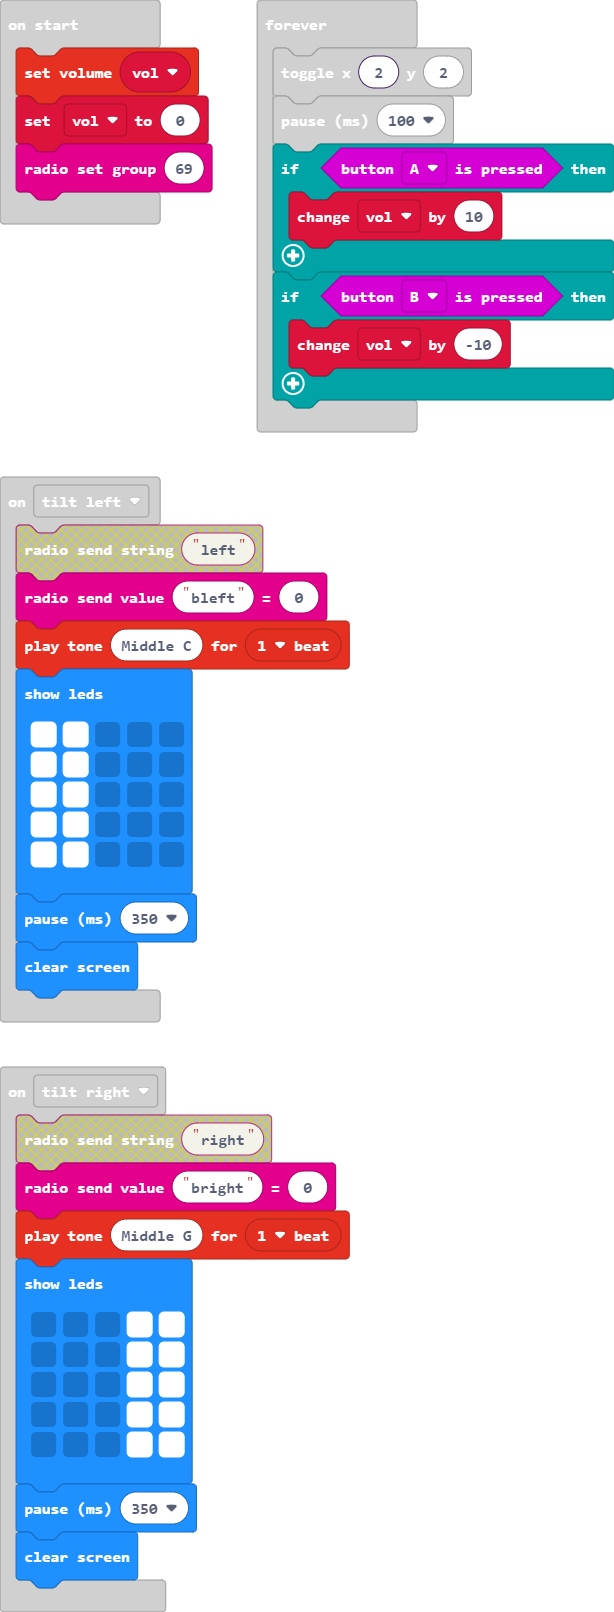
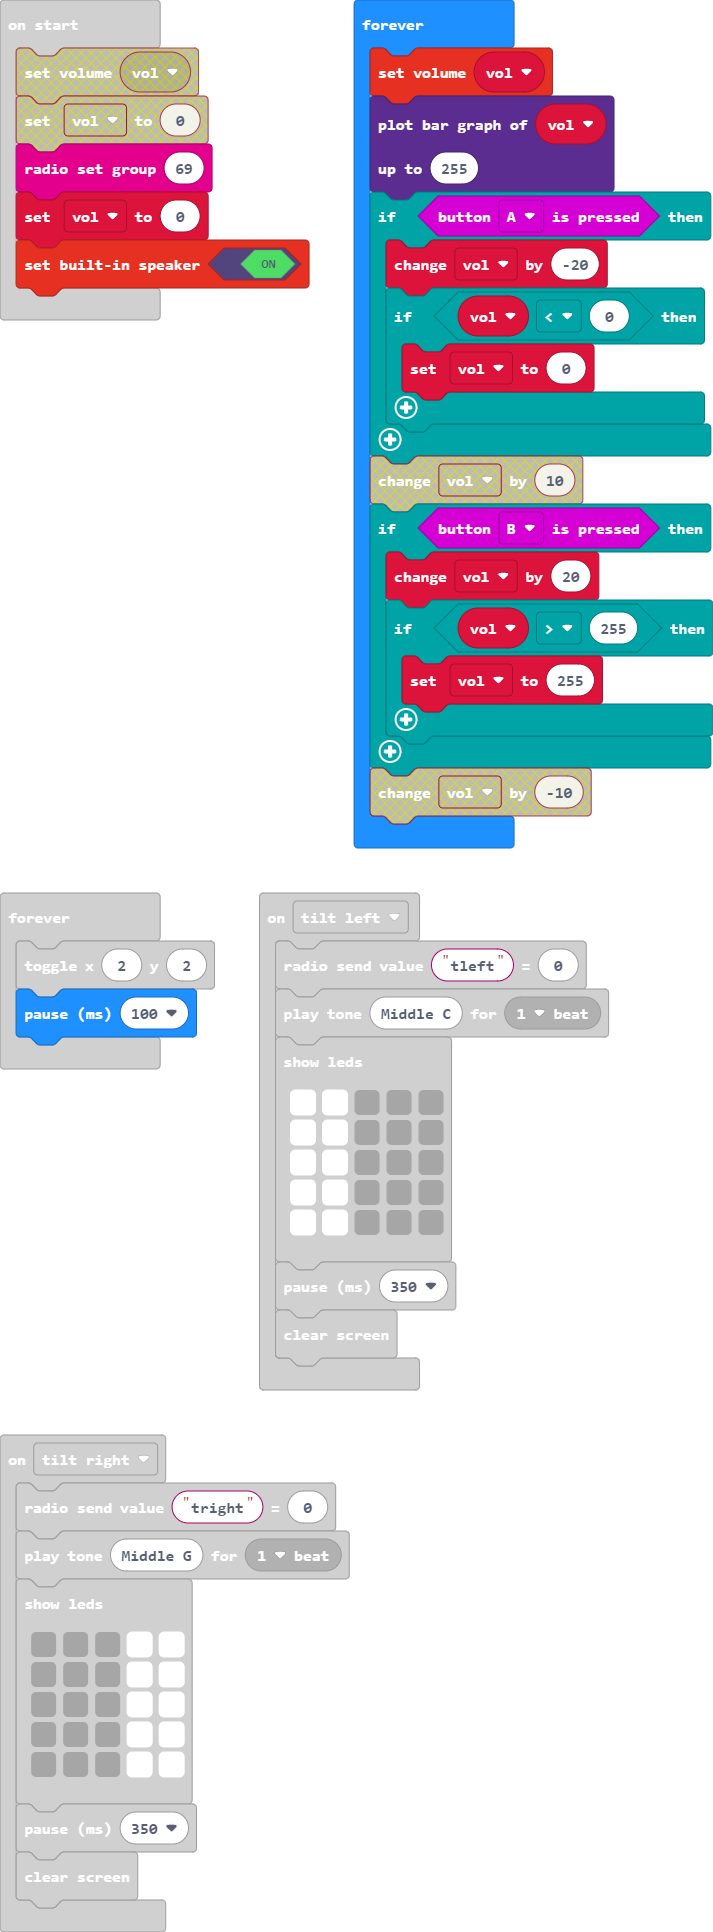
Update pxt.json, main.blocks, main.ts, main.py

diff --git a/main.ts b/main.ts
@@ -1,5 +1,5 @@
 input.onGesture(Gesture.TiltLeft, function () {
-    radio.sendValue("bleft", 0)
+    radio.sendValue("tleft", 0)
     music.playTone(262, music.beat(BeatFraction.Whole))
     basic.showLeds(`
         # # . . .
@@ -12,7 +12,7 @@ input.onGesture(Gesture.TiltLeft, function () {
     basic.clearScreen()
 })
 input.onGesture(Gesture.TiltRight, function () {
-    radio.sendValue("bright", 0)
+    radio.sendValue("tright", 0)
     music.playTone(392, music.beat(BeatFraction.Whole))
     basic.showLeds(`
         . . . # #
@@ -25,16 +25,28 @@ input.onGesture(Gesture.TiltRight, function () {
     basic.clearScreen()
 })
 let vol = 0
-music.setVolume(vol)
-vol = 0
+music.setBuiltInSpeakerEnabled(true)
 radio.setGroup(69)
+basic.forever(function () {
+    music.setVolume(vol)
+    led.plotBarGraph(
+    vol,
+    255
+    )
+    if (input.buttonIsPressed(Button.A)) {
+        vol += -20
+        if (vol < 0) {
+            vol = 0
+        }
+    }
+    if (input.buttonIsPressed(Button.B)) {
+        vol += 20
+        if (vol > 255) {
+            vol = 255
+        }
+    }
+})
 basic.forever(function () {
     led.toggle(2, 2)
     basic.pause(100)
-    if (input.buttonIsPressed(Button.A)) {
-        vol += 10
-    }
-    if (input.buttonIsPressed(Button.B)) {
-        vol += -10
-    }
 })

diff --git a/main.py b/main.py
@@ -1,0 +1,59 @@
+def on_gesture_tilt_left():
+    radio.send_value("bleft", 0)
+    music.play_tone(262, music.beat(BeatFraction.WHOLE))
+    basic.show_leds("""
+        # # . . .
+                # # . . .
+                # # . . .
+                # # . . .
+                # # . . .
+    """)
+    basic.pause(350)
+    basic.clear_screen()
+input.on_gesture(Gesture.TILT_LEFT, on_gesture_tilt_left)
+
+def on_gesture_tilt_right():
+    radio.send_value("bright", 0)
+    music.play_tone(392, music.beat(BeatFraction.WHOLE))
+    basic.show_leds("""
+        . . . # #
+                . . . # #
+                . . . # #
+                . . . # #
+                . . . # #
+    """)
+    basic.pause(350)
+    basic.clear_screen()
+input.on_gesture(Gesture.TILT_RIGHT, on_gesture_tilt_right)
+
+music.set_built_in_speaker_enabled(True)
+music.set_volume(0)
+radio.set_group(69)
+
+def on_forever():
+    if input.button_is_pressed(Button.A):
+        basic.show_leds("""
+            . . # . .
+                        . # # # .
+                        # . # . #
+                        . . # . .
+                        . . # . .
+        """)
+        basic.pause(200)
+        basic.clear_screen()
+    if input.button_is_pressed(Button.B):
+        basic.show_leds("""
+            . . # . .
+                        . . # . .
+                        # . # . #
+                        . # # # .
+                        . . # . .
+        """)
+        basic.pause(200)
+        basic.clear_screen()
+basic.forever(on_forever)
+
+def on_forever2():
+    led.toggle(2, 2)
+    basic.pause(100)
+basic.forever(on_forever2)
